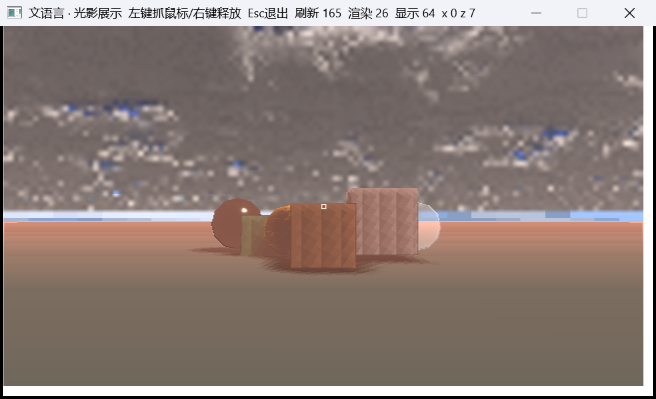
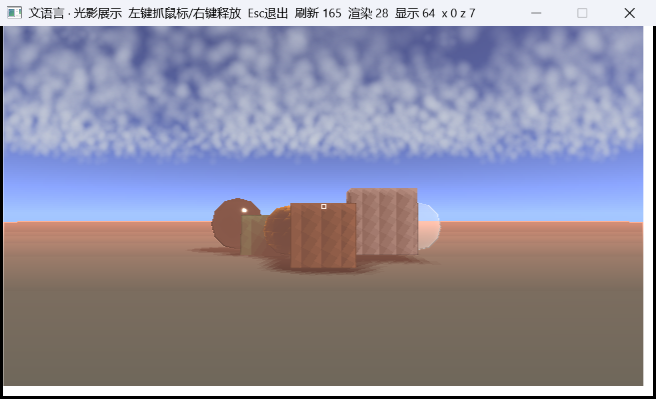
全新粒子体云架构：三维云场离散/深度排序/软粒子合成；不逐像素算相函数；152/154

diff --git a/wen.cpp b/wen.cpp
@@ -11338,6 +11338,7 @@ Interpreter::Interpreter() {
             atmo.base = std::max(1.0, std::min(30.0, atmo.base));
             atmo.top = std::max(atmo.base + 0.5, std::min(35.0, atmo.top));
         }
+        bool useParticleClouds = true;
         std::wstring title = utf8ToWide(a.size() >= 3 ? needStr(a[2], "玩家视口", line) : "玩家视角");
         static bool reg = false;
         HINSTANCE inst = GetModuleHandleW(nullptr);
@@ -11677,7 +11678,7 @@ Interpreter::Interpreter() {
                 return std::max(0.0, std::min(1.0, d));
             };
             // 高层卷云：独立高度层，真正射线步进
-            if (atmo.highCover > 0.001) {
+            if (!useParticleClouds && atmo.highCover > 0.001) {
                 auto highDensity = [&](PVec p, double time) {
                     double h=(p.y-atmo.highBase)/(atmo.highTop-atmo.highBase);
                     if (h<0 || h>1) return 0.0;
@@ -11740,6 +11741,62 @@ Interpreter::Interpreter() {
                     pw.back[i+2]=(unsigned char)(pw.back[i+2]*(1-aa)+hbuf[ci]*aa);
                 }
             }
+            double tsec = std::chrono::duration<double>(std::chrono::steady_clock::now() - t0).count();
+            if (useParticleClouds) {
+                struct PC { PVec p; double d; int layer; };
+                vector<PC> parts;
+                auto addLayer = [&](double base, double top, double cover, double scale, double wind, int layer) {
+                    double t = tsec;
+                    for (double gx=-42; gx<=42; gx+=1.6)
+                    for (double gz=-42; gz<=42; gz+=1.6)
+                    for (double gy=base+0.4; gy<top; gy+=0.9) {
+                        double h=(gy-base)/(top-base);
+                        double qx=(gx+t*wind)*scale, qy=gy*scale*1.7, qz=(gz-t*wind)*scale;
+                        double f=0, amp=0.55, fr=1;
+                        for(int o=0;o<3;++o){ f += vnoise3(qx*fr,qy*fr,qz*fr)*amp; fr*=2.1; amp*=0.5; }
+                        double billow=1.0-std::fabs(2.0*f-1.0);
+                        double n=f*0.62+billow*0.38;
+                        double prof=std::pow(std::max(0.0,h),0.40)*std::pow(std::max(0.0,1-h),0.20);
+                        double d=(n*prof - (0.52-cover*0.32))*4.0;
+                        if (d <= 0.03) continue;
+                        double jx=(hash3(gx*1.3,gz*1.7,gy)-0.5)*1.8;
+                        double jz=(hash3(gz*1.1,gx*1.9,gy+7)-0.5)*1.8;
+                        parts.push_back({{gx+jx, gy, gz+jz}, std::min(1.0,d), layer});
+                        if (parts.size() > 26000) return;
+                    }
+                };
+                addLayer(atmo.base, atmo.top, atmo.cover, atmo.scale, atmo.wind, 0);
+                if (atmo.highCover > 0.01) addLayer(atmo.highBase, atmo.highTop, atmo.highCover, atmo.highScale, atmo.wind*0.6, 1);
+                std::cerr << "PARTS " << parts.size() << " cover=" << atmo.cover << "\n";
+                std::sort(parts.begin(), parts.end(), [&](const PC& a, const PC& b) {
+                    auto da=psub(a.p,cam), db=psub(b.p,cam);
+                    return pdot(da,da) > pdot(db,db);
+                });
+                auto pj = [&](PVec q, double& sx, double& sy, double& zz)->bool {
+                    PVec d=psub(q,cam); zz=pdot(d,f); if(zz<=0.2) return false;
+                    double xx=pdot(d,r), yy=pdot(d,u); double fl=(double)h*0.95;
+                    sx=w*0.5+xx*fl/zz; sy=h*0.5-yy*fl/zz; return true;
+                };
+                for (const auto& pt : parts) {
+                    double sx,sy,zz;
+                    if (!pj(pt.p,sx,sy,zz)) continue;
+                    double rad = std::max(3.0, std::min(90.0, 300.0/zz));
+                    double aa = std::min(0.55, 0.12 + pt.d*0.32) * (pt.layer ? 0.55 : 1.0);
+                    double cr = pt.layer ? 220 : 205, cg = pt.layer ? 225 : 210, cb = pt.layer ? 240 : 220;
+                    int x0=(int)(sx-rad), x1=(int)(sx+rad), y0=(int)(sy-rad), y1=(int)(sy+rad);
+                    if (x1<0||y1<0||x0>=w||y0>=h) continue;
+                    for (int y=std::max(0,y0); y<=std::min(h-1,y1); ++y) for (int x=std::max(0,x0); x<=std::min(w-1,x1); ++x) {
+                        double dx=(x+0.5-sx)/rad, dy=(y+0.5-sy)/rad;
+                        double fall=1.0-dx*dx-dy*dy; if (fall<=0) continue;
+                        double a=aa*fall*fall;
+                        size_t i=((size_t)y*w+x)*3;
+                        pw.back[i]  =(unsigned char)std::min(255.0,pw.back[i]*(1-a)+cb*a);
+                        pw.back[i+1]=(unsigned char)std::min(255.0,pw.back[i+1]*(1-a)+cg*a);
+                        pw.back[i+2]=(unsigned char)std::min(255.0,pw.back[i+2]*(1-a)+cr*a);
+                    }
+                }
+            }
+            if (!useParticleClouds) {
             // 体积云：低分辨率射线步进 + 双线性放大
             int cw = std::max(1, w / atmo.res), ch = std::max(1, h / atmo.res);
             vector<unsigned char> cloudBuf((size_t)cw*ch*4, 0);
@@ -11857,6 +11914,7 @@ Interpreter::Interpreter() {
                 std::vector<std::thread> th;
                 for(unsigned k=0;k<nt;++k) th.emplace_back(upRows, h*(int)k/(int)nt, h*(int)(k+1)/(int)nt);
                 for(auto& t:th) t.join();
+            }
             }
             zbuf.assign((size_t)w*h, 1e30);
             auto project=[&](PVec p, double& sx, double& sy, double& z)->bool{

diff --git a/渲染架构.md b/渲染架构.md
@@ -62,6 +62,11 @@ color = albedo * kd * (ambient + NoL * intensity) + spec * lightColor
 - 整块做相机视锥/距离剔除
 - 块内再逐三角形光栅
 - 不是按贴图拆，也不是单物体硬编码
+## 云端架构：粒子体云
+- 三维云场离散成粒子
+- 按深度排序后软粒子合成
+- 不逐像素算相函数/BRDF
+- 高层/低层按高度分层粒子
 ## 云重建
 - Catmull-Rom 4×4 重建
 - 云质量按帧时间自适应

diff --git a/版本验证报告.md b/版本验证报告.md
@@ -1,6 +1,6 @@
 # 版本验证报告
 
-- 生成时间：2026-10-28 21:58:37
+- 生成时间：2026-10-28 22:14:22
 - 版本：`0.1.0-snapshot`
 - 测试：未运行
 
@@ -17,8 +17,8 @@
 可运行: 真
 ```
 
[1 lines of base64/hex data omitted]
-- 大小：6229014 字节
[1 lines of base64/hex data omitted]
+- 大小：6211236 字节
 
 ## 插件
 
